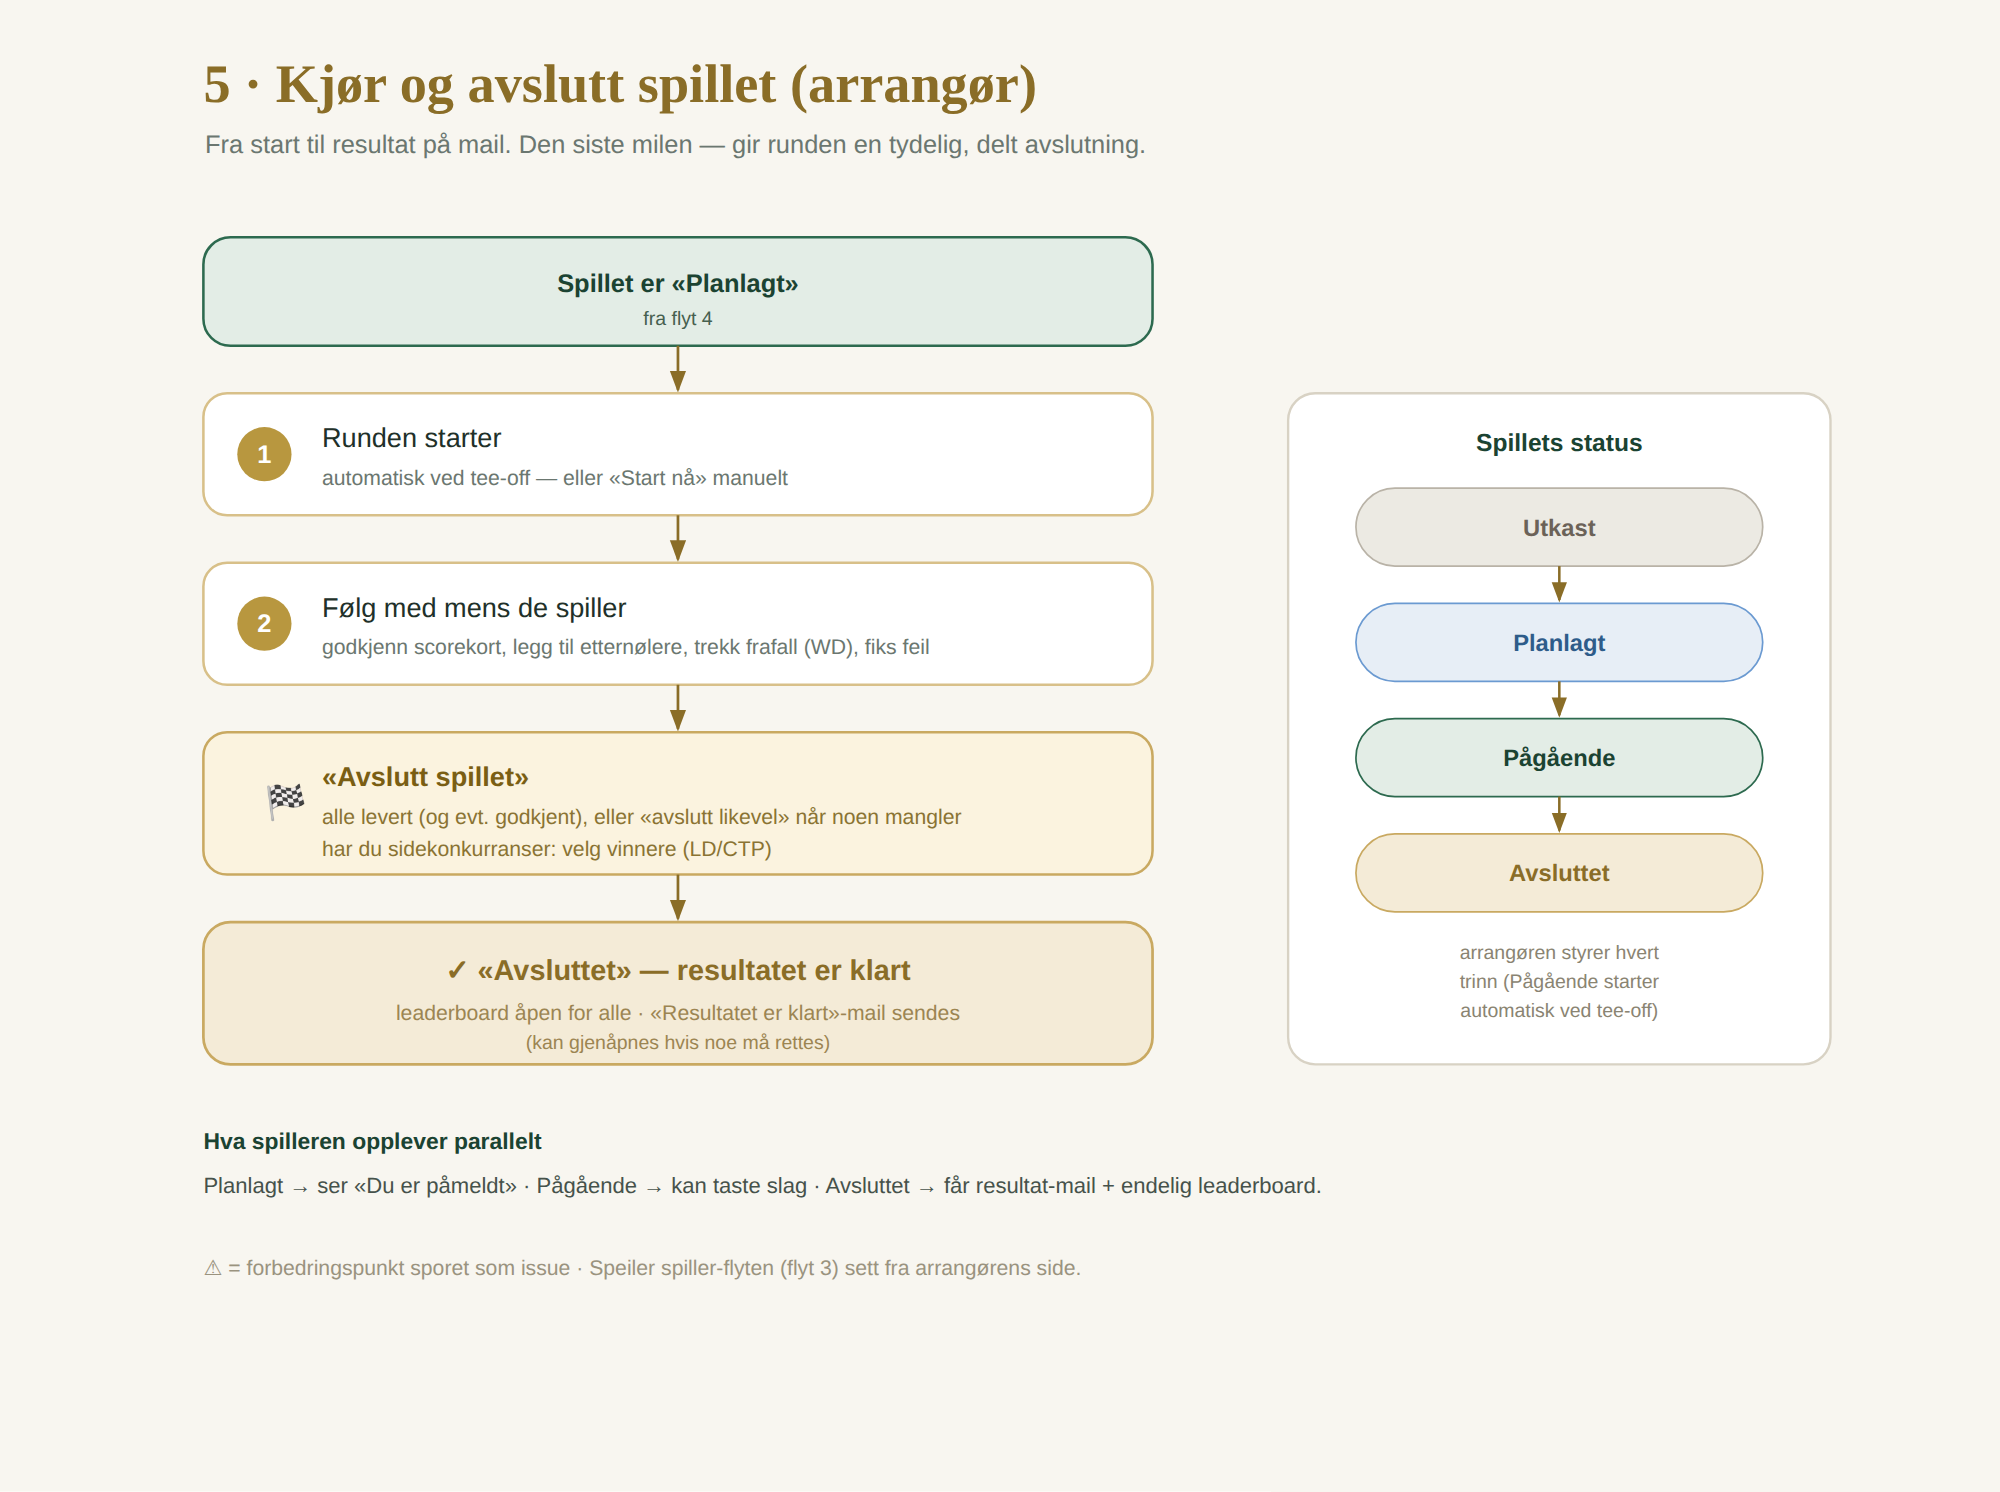
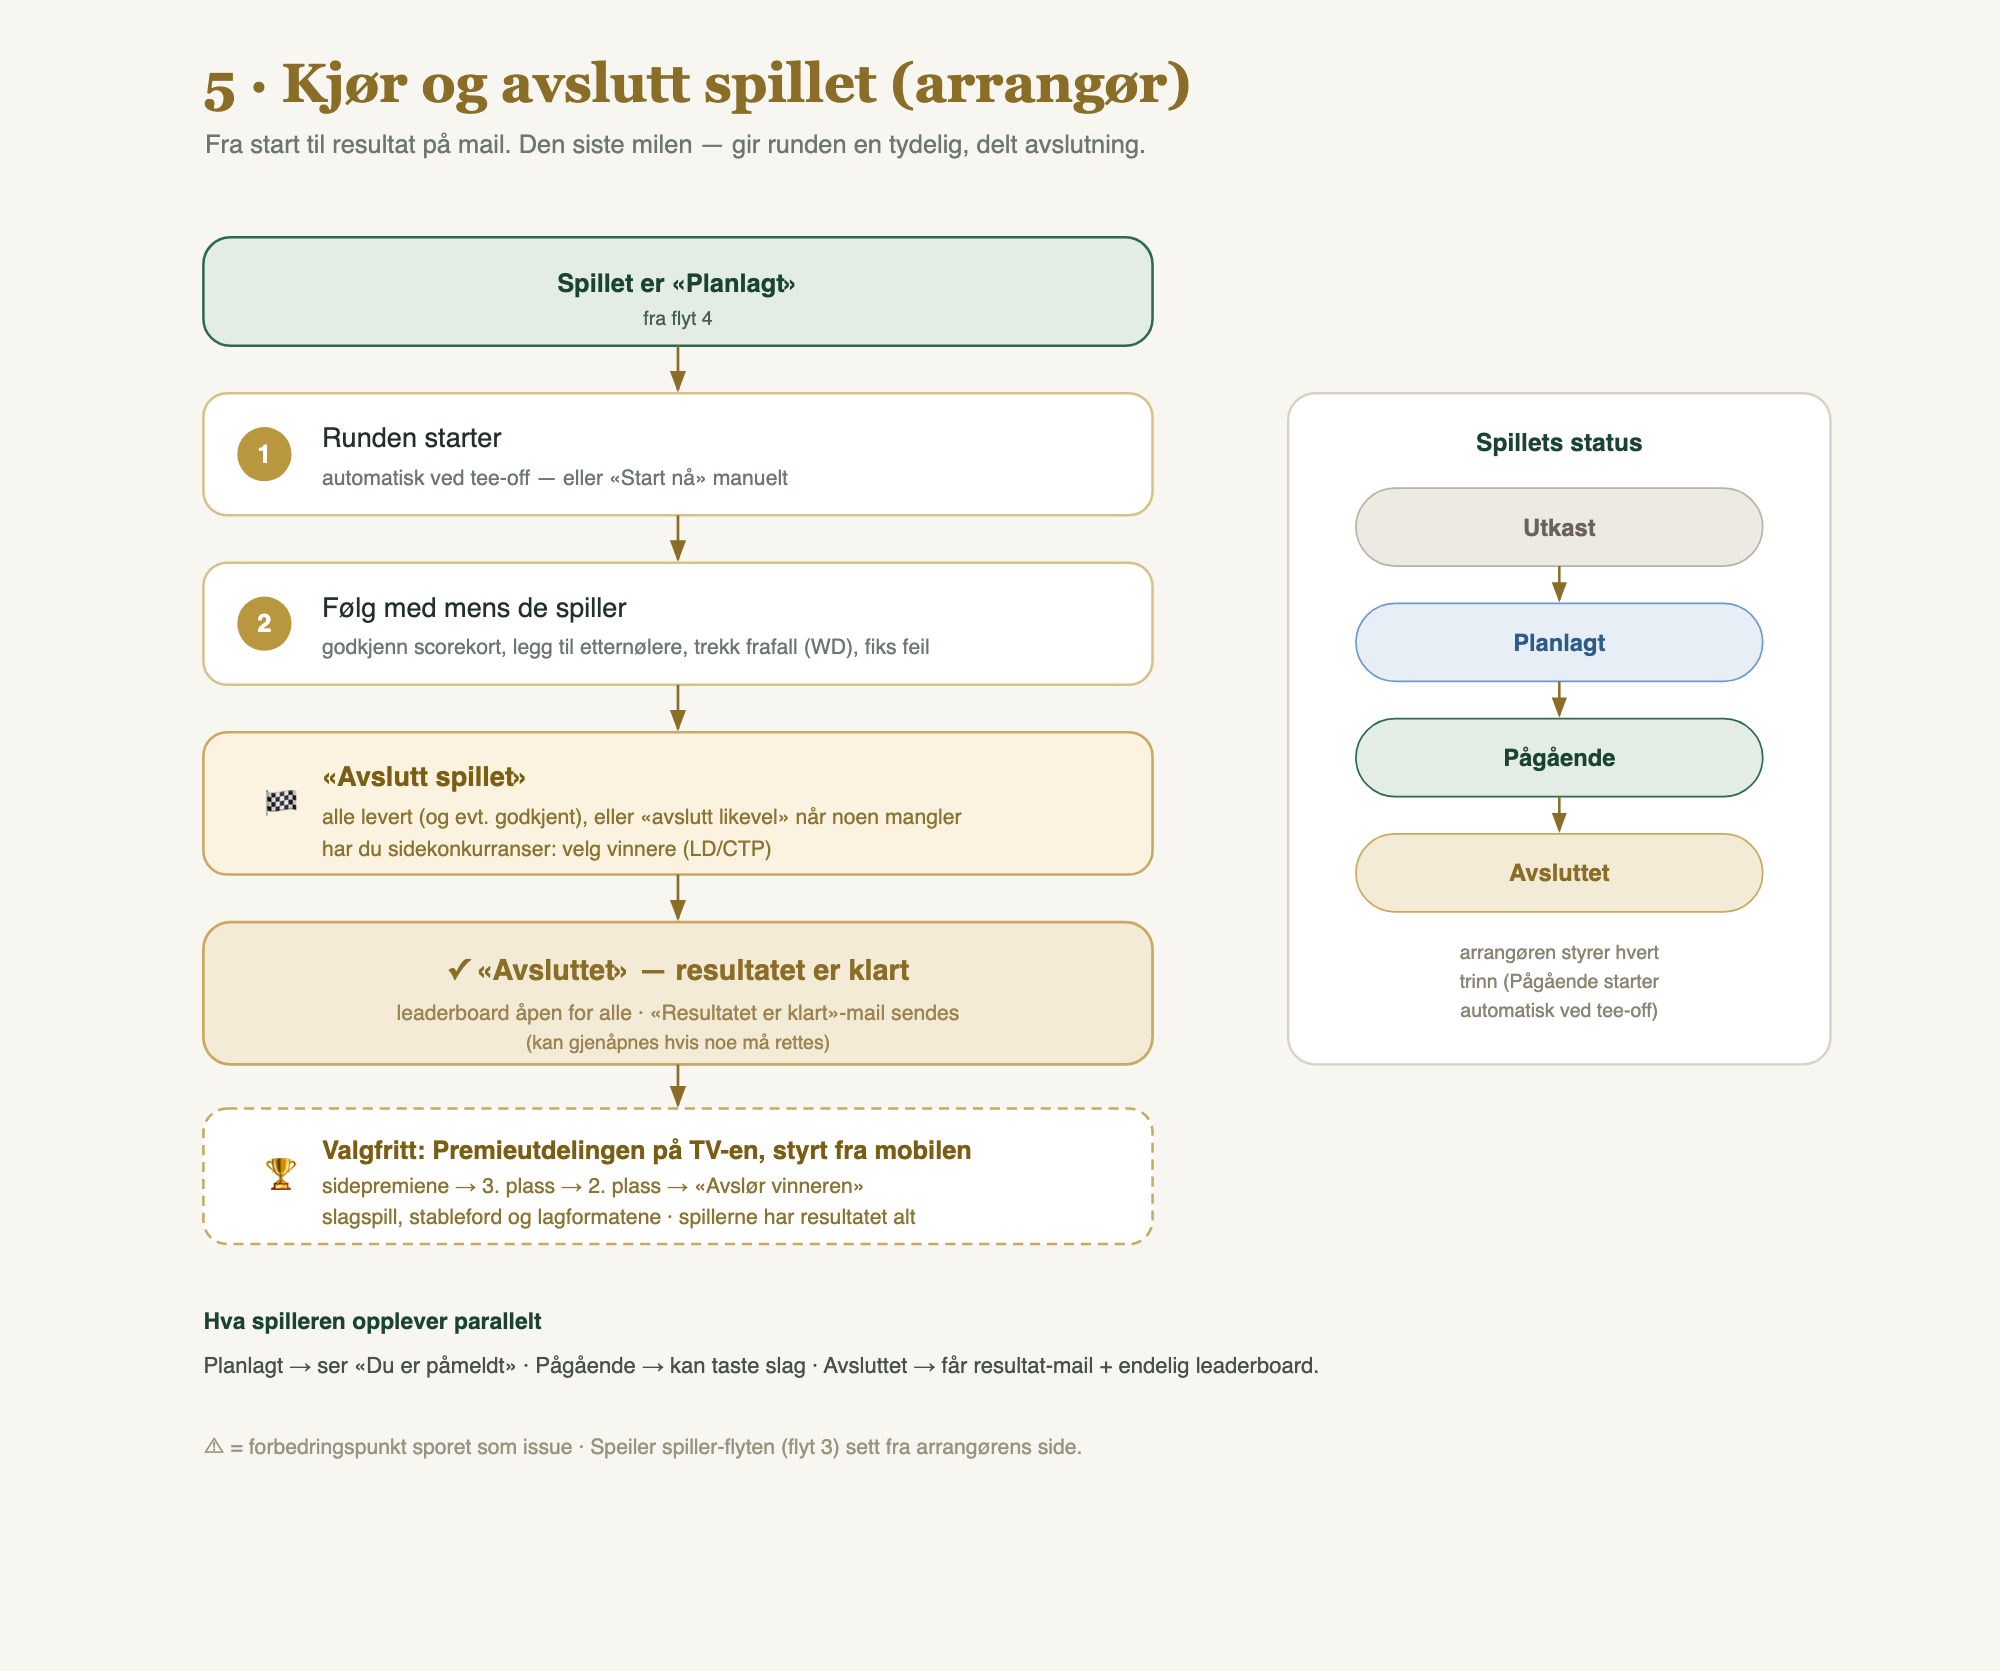
docs(flows): flow 5 gets the optional prize-giving after «Avsluttet»
Both flow 5 diagrams get a dashed, optional step after «✓ «Avsluttet» —
resultatet er klart»: «Premieutdelingen på TV-en, styrt fra mobilen»
(side prizes → 3rd → 2nd → «Avslør vinneren»). PNGs regenerated; the
renderer's drift on the other flows is left out. user-flows.md §A2 gets
the line under «Avslutt».

Refs #2298

diff --git a/docs/user-flows.md b/docs/user-flows.md
@@ -247,6 +247,7 @@ Publiserer en arrangør som ikke er admin uten å stå på lista selv, lander he
 - **Påmeldinger** (`/admin/games/[id]/signups`): godkjenn/avvis manuelle forespørsler. Øverst står hvor mange som er med, hvor mange som venter og hvor mange plasser som er ledige («8 av 12», med teller spillerlista, #2291). Hver søknad er et kort med HCP og tidspunkt, et lag er ett kort, og et lag som trenger flere plasser enn det er ledig, er merket. «Steng påmeldingen» / «Gjenåpne påmeldingen» står bare her, ikke på spillsiden, og en grå lenkelinje nederst går til de godkjente, avviste og trukne (#2288). Arrangøren av spillet slipper også inn, fra varselet eller fra «Påmeldinger» på `/games/[id]/spillere` (#2440; også på runder med bare inviterte og der påmeldingen kan stenges), og fra e-posten «Ny påmelding» (#2202).
 - **Godkjenn/Åpne scorekort**: `adminApproveScorecard`, `reopenScorecard` (åpner hele laget i formatene med felles ball, #2213). Statussiden (`/admin/games/[id]/status`) og spillersiden (`/games/[id]/spillere`) viser «Levert av {navn}» på et kort en annen leverte (#2200); gjenåpning virker som før.
 - **Avslutt** (`endGame`): krever alle levert (+ godkjent hvis peer). Arrangøren får beskjed når det er klart: «Alle har levert» etter siste levering, godkjenning eller tilbaketrekking, én gang per spill, og ikke når hen gjorde det selv. Har et aktivt spill stått stille et døgn (ingen slag, leveringer, godkjenninger eller tilbaketrekkinger), får hen én påminnelse (`game_stale_reminder`, sveipen `POST /api/cron/stale-game-reminder`, pg_cron fra 0205). Cupkamper og avledede spill er utenfor begge. Spillet avslutter seg aldri selv (#2203). En gjest kan ikke levere selv, men den som fører kortet, leverer det (#2200), så gjester trenger ikke lenger «Avslutt likevel». Side-turnering → `/admin/games/[id]/avslutt` (velg LD/CTP-vinnere). `→ finished` + `gameFinishedNotification` (Resend, off-app). `reopenGame` reverserer; kortene står fortsatt som levert, admin åpner dem som skal rettes (#2213).
+- **Premieutdelingen** (valgfri, etter «Avslutt», #2298): på et avsluttet spill i slagspill, stableford eller et lagformat med pall har arrangøren «Premieutdelingen →» på spillets side og under «Resultat» i Sekretariatet (`/games/[id]/premieutdeling`). Siden har lenken til storskjermen og én knapp som snur neste kort på TV-en: sidepremiene, 3. plass, 2. plass og «Avslør vinneren», med «Ett steg tilbake», «Start på nytt» og «Lukk». Steget står i `games.ceremony_step`, og TV-en spør etter det hvert 2. sekund. Spillerne har resultatet i appen fra «Avslutt» som før; et gjenåpnet spill starter uten seremoni.
 - **Påminn om hull uten slag** (pulten, #2268): «Påminn» på en hull-rad i «Trenger deg» sender spilleren varselet «Du mangler slag på hull H» (i innboksen, og som push og på e-post når spilleren ikke er i appen; lenke til hullet; varseltypen `missing_score_reminder`, 0203). Som leveringspåminnelsen kan arrangøren purre på nytt (#1891).
 - **Rediger** (`/admin/games/[id]/edit`; arrangøren `/games/[id]/rediger`). Et utkast gjenopptas i veiviseren på begge, med samme regel (`loadDraftResume`), og feil lander på «Klar?». Planlagte spill og cup- og ligakoblede utkast har skjemaet (#2269). **Slett** (`/admin/games/[id]/slett`, **dedikert side**, status-bevisst advarsel).
 
